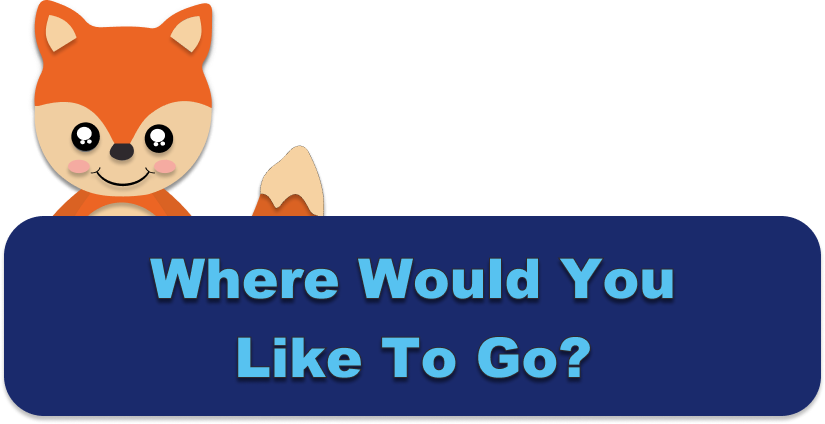
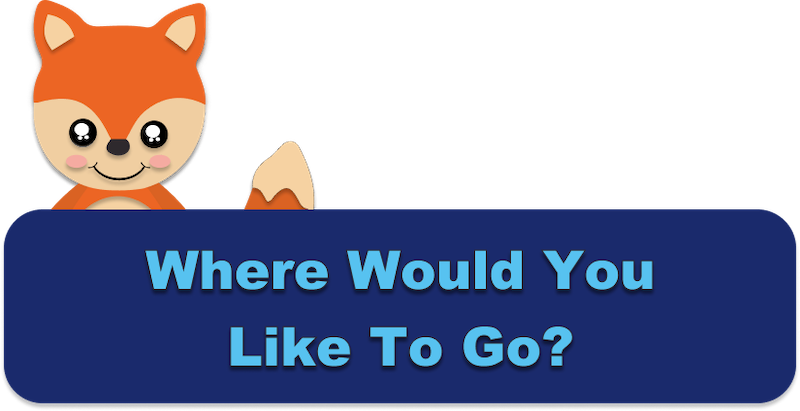
switching images for login and show off

diff --git a/src/components/Sidekick.js b/src/components/Sidekick.js
@@ -16,9 +16,10 @@ class Sidekick extends Component {
 					/>
 				</div>
 				<div className="buttonSet">
-					<Link className="link" to="/ShowOff">
+					<Link className="button1" to="/ShowOff">
 						<img
 							src={require("../images/See.png")}
+							clasName="button1"
 							alt="See my Sidekick"
 						/>
 					</Link>
@@ -29,9 +30,10 @@ class Sidekick extends Component {
 						alt="Or"
 					/>
 					<div className="">
-						<Link className="link" to="/Stuff">
+						<Link className="button2" to="/Stuff">
 							<img
 								src={require("../images/Stuff.png")}
+								clasName="button2"
 								alt="See my Stuff"
 							/>
 						</Link>

diff --git a/src/components/LoginForm.js b/src/components/LoginForm.js
@@ -1,6 +1,5 @@
 import React, { Component } from "react";
 import Form from "react-bootstrap/Form";
-import Button from "react-bootstrap/Button";
 import { Link } from "react-router-dom";
 import "../../src/css/Login.css";
 
@@ -28,9 +27,11 @@ class LoginForm extends Component {
 						<Form.Control type="password" placeholder="Password" />
 					</Form.Group>
 					<Link to="/Store">
-						<Button variant="primary" type="submit">
-							Login
-						</Button>
+						<img
+							src={require("../images/loginButton.png")}
+							className="LoginButton"
+							alt="Login"
+						/>
 					</Link>
 				</Form>
 			</Form>

diff --git a/src/css/Sidekick.css b/src/css/Sidekick.css
@@ -7,7 +7,7 @@ body{
 }
 
 .whereTo{
-    padding-top: 6.8em;
+    padding-top: 9em;
     display: flex;
     justify-content: center;
 }
@@ -15,6 +15,9 @@ body{
     padding-top: 3.8em;
     display: flex;
     flex-direction: row;
-    justify-content: space-evenly;
+    justify-content: center;
     align-items: center;
+}
+.button1 .button2{
+  margin: 5em;
 }

diff --git a/src/css/Login.css b/src/css/Login.css
@@ -14,6 +14,8 @@ body{
     transform: translate(-50%, -50%) 
 }
 .loginForm{
+    color: white;
+    font-size: 1.5em;
     padding-top: 3em;
     position: absolute;
     top: 58%;
@@ -32,5 +34,7 @@ body{
     margin-right: -50%;
     transform: translate(-50%, -50%) 
 }
-
+.LoginButton{
+    padding-top: 1em;
+}
 

diff --git a/src/components/ShowOff.js b/src/components/ShowOff.js
@@ -11,7 +11,7 @@ class ShowOff extends Component {
             <div className="showContainer">
 				<div className="ShowOff">
 					<img
-						src={require("../images/raccoon.png")}
+						src={require("../images/dressedAvatar.png")}
 						alt="Stuff"
 					/>
 				</div>
